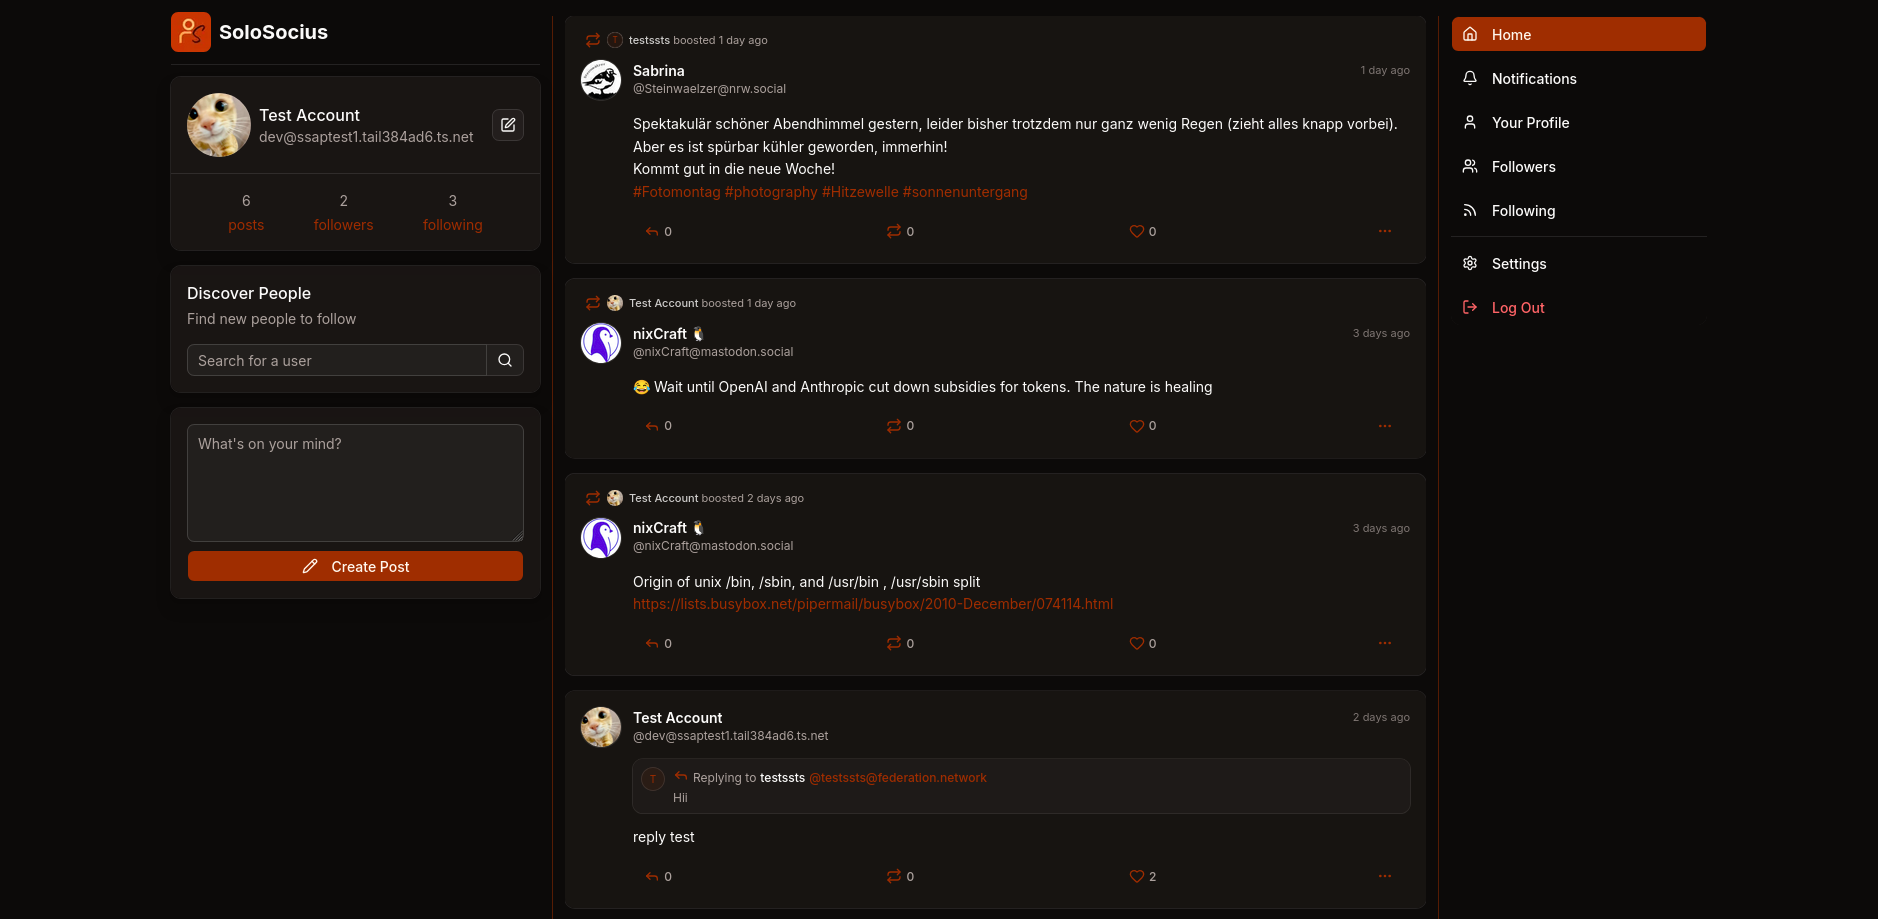
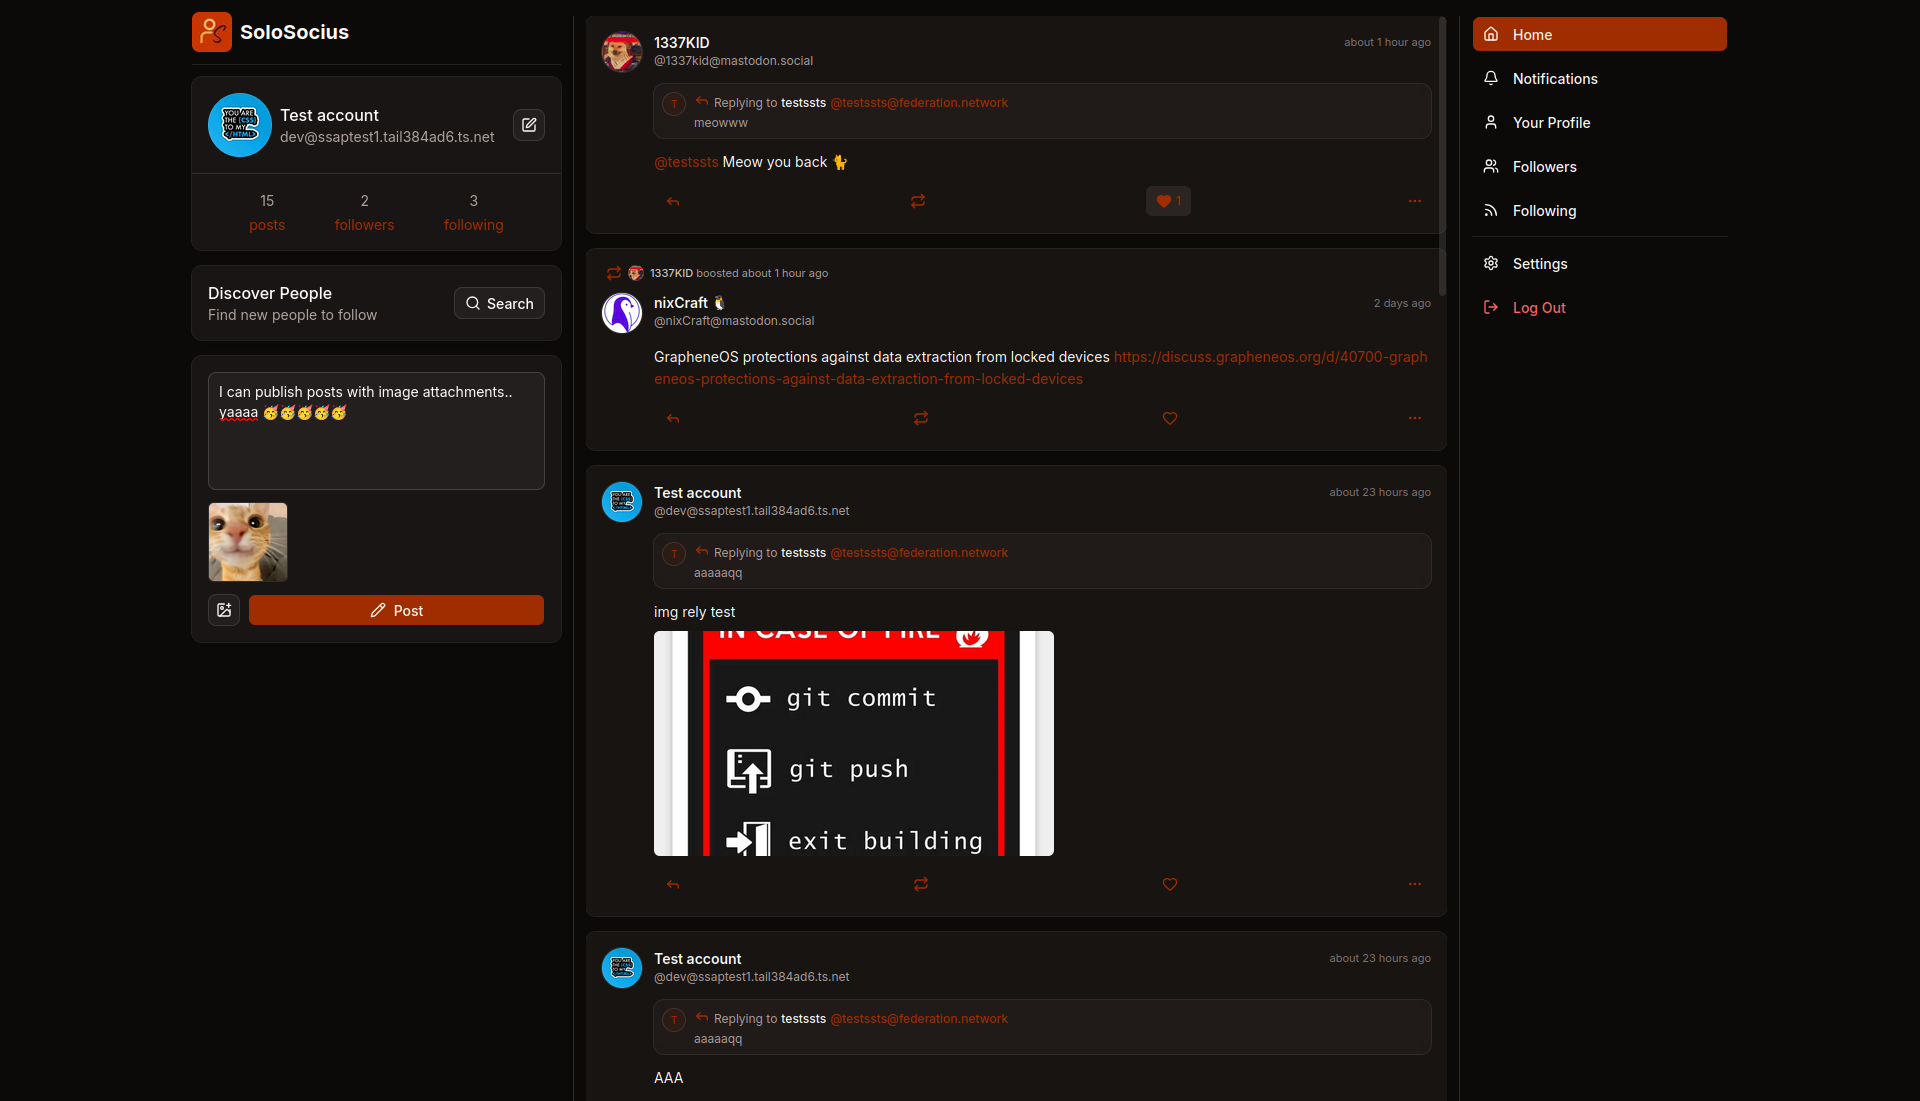
docs: update README with new information

diff --git a/apps/frontend/src/features/timeline/components/PostMediaGrid.tsx b/apps/frontend/src/features/timeline/components/PostMediaGrid.tsx
@@ -171,7 +171,7 @@ export function PostMediaGrid({ mediaItems }: PostMediaGridProps) {
 
           return (
             <button
-              key={item.url}
+              key={i}
               className={itemClass}
               onClick={() => openDialog(i)}
               aria-label={`View image ${i + 1}`}

diff --git a/README.md b/README.md
@@ -1,6 +1,9 @@
-# SoloSocius
+<p align="center">
+    <img src="docs/logo.png" width="200px" alt="logo" /><br/>
+    🔥 A lightweight, single-user ActivityPub server built for self-hosting. 🙋
+</p>
 
-> A lightweight, single-user ActivityPub server built for self-hosting.
+---
 
 SoloSocius is an experimental ActivityPub implementation focused on simplicity. It allows a single user to publish posts, interact with the [Fediverse](https://en.wikipedia.org/wiki/Fediverse) (Decentralised social network), and host their own social presence without the complexity of a multi-user platform.
 
@@ -17,6 +20,7 @@ SoloSocius is an experimental ActivityPub implementation focused on simplicity. 
 - Follow remote users on Mastodon, Misskey and other ActivityPub servers
 - Receive remote posts in timeline
 - Like and repost remote posts
+- Publish posts and replies with image attachments
 - Unfollow users
 - Self-host with Docker
 
@@ -46,6 +50,8 @@ Built with:
 - ActivityPub
 - Docker
 - Caddy
+- AWS S3 Storage
+- Redis
 
 > [!NOTE]
 > ActivityPub requires HTTPS for federation. Caddy is used as the reverse proxy and automatically provisions TLS certificates.
